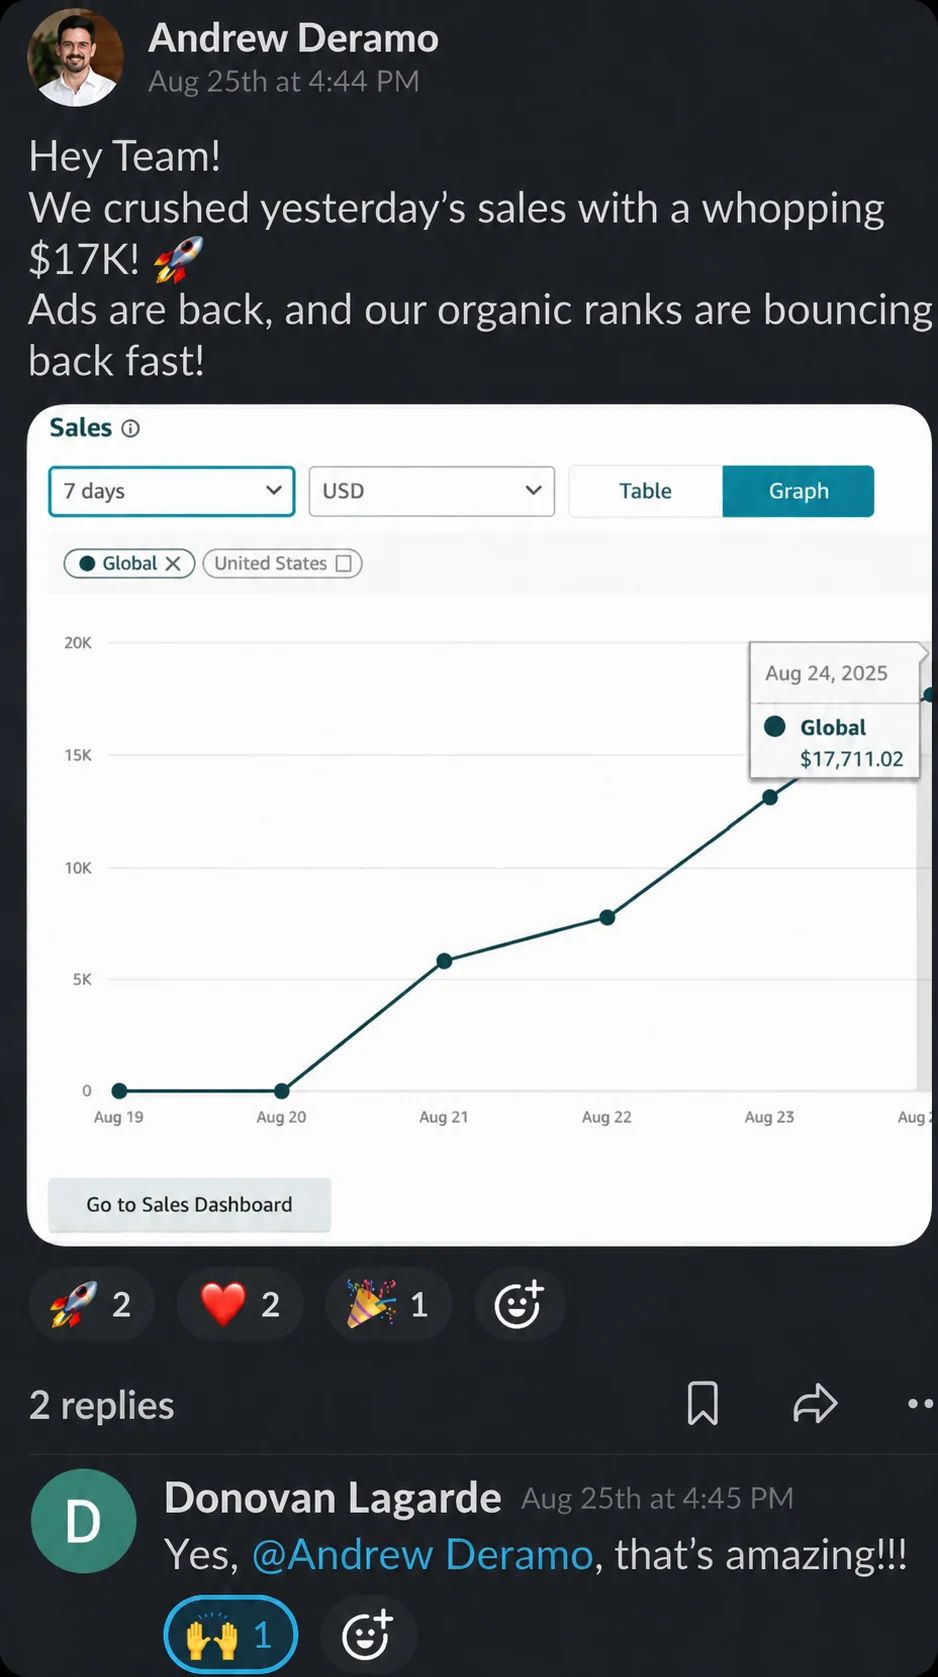
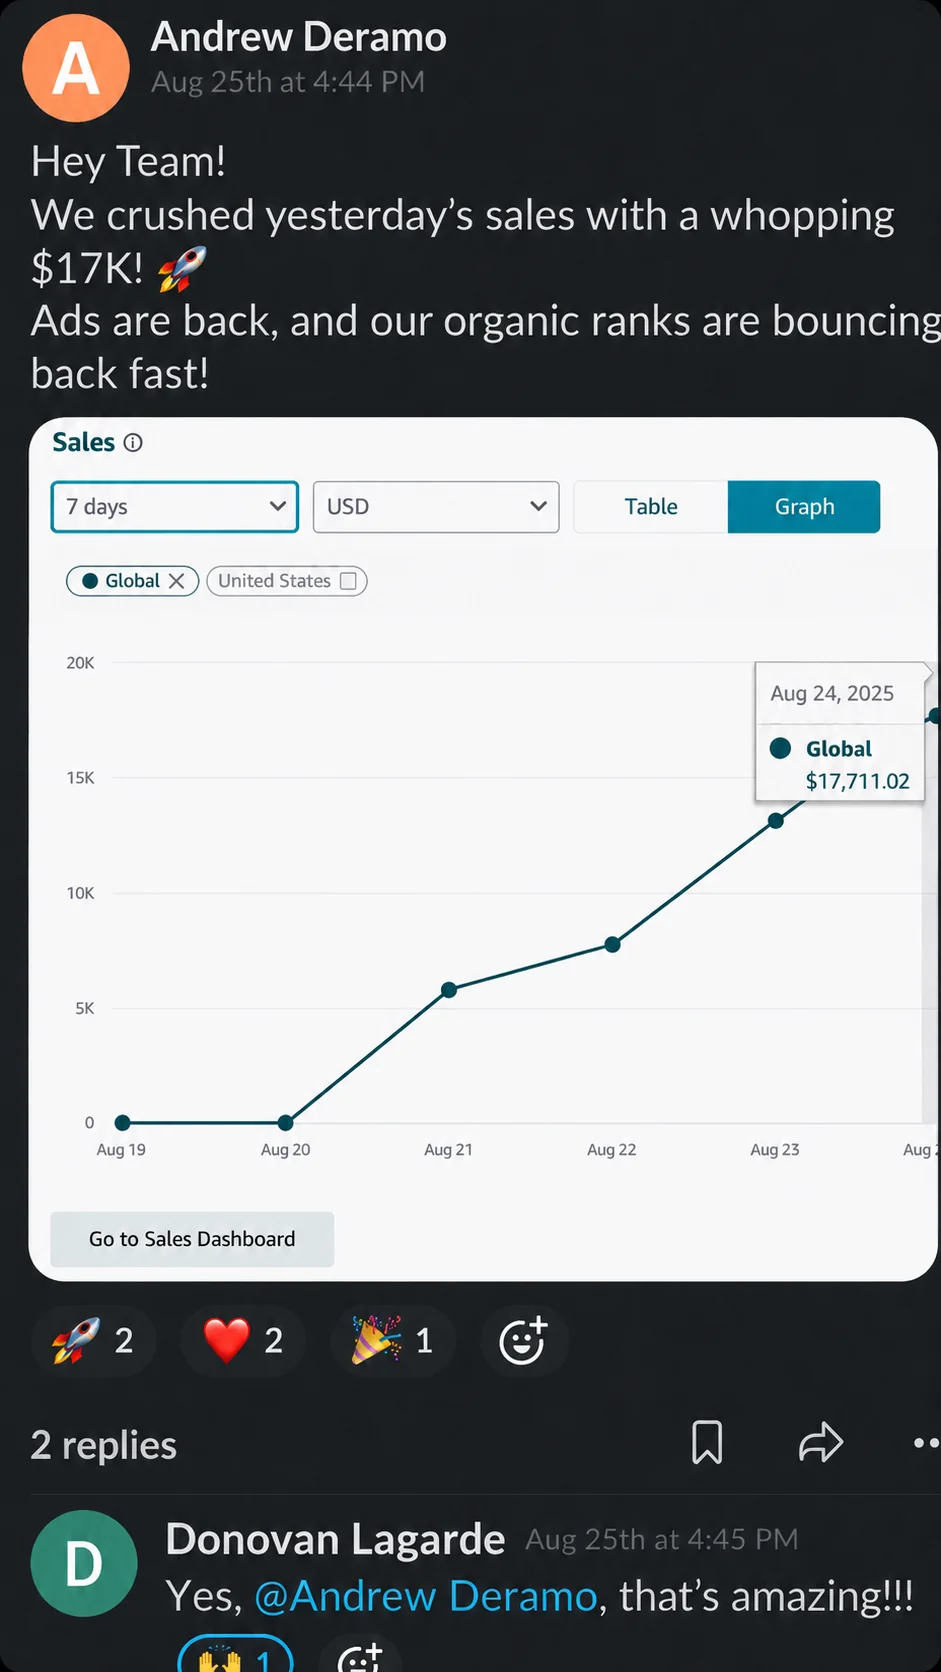
Add Calendly booking to form success + replace 3 proof images

diff --git a/free-audit.html b/free-audit.html
@@ -446,6 +446,10 @@
       text-align:center;font-size:12px;color:rgba(255,255,255,0.2);margin-top:14px;
     }
 
+    .modal-box-calendly{max-width:680px !important}
+    .modal-success .calendly-inline-widget,
+    .lp-success .calendly-inline-widget{margin-top:16px;border-radius:8px;overflow:hidden}
+
     /* ── Responsive ─────────────────────────────────────────── */
     @media(min-width:1100px){
       .lp-proof-masonry{columns:3}
@@ -475,6 +479,8 @@
       .modal-card{padding:24px 18px}
     }
   </style>
+  <link rel="preconnect" href="https://assets.calendly.com">
+  <script src="https://assets.calendly.com/assets/external/widget.js" async></script>
 </head>
 <body>
 
@@ -561,9 +567,9 @@
 
         <!-- Success State -->
         <div class="modal-success" id="modal-success">
-          <div class="modal-success-icon">&#10003;</div>
-          <h3>You are in the queue.</h3>
-          <p>We will review your application and follow up within one business day.</p>
+          <h3>Application received.</h3>
+          <p>Book a call now while you're here &mdash; no waiting, no back-and-forth.</p>
+          <div class="calendly-inline-widget" data-url="https://calendly.com/andrewd3/30min?hide_gdpr_banner=1" style="min-width:280px;height:700px;"></div>
         </div>
 
         <p class="modal-form-note" id="modal-form-note">No spam. No pitch calls. We review every application personally.</p>
@@ -797,9 +803,9 @@
       </form>
 
       <div class="lp-success" id="lp-success">
-        <div class="lp-success-icon">&#10003;</div>
-        <h3>You are in the queue.</h3>
-        <p>We will review your application and follow up within one business day.</p>
+        <h3>Application received.</h3>
+        <p>Book a call now while you're here &mdash; no waiting, no back-and-forth.</p>
+        <div class="calendly-inline-widget" data-url="https://calendly.com/andrewd3/30min?hide_gdpr_banner=1" style="min-width:280px;height:700px;"></div>
       </div>
 
       <p class="lp-form-note" id="lp-form-note">No spam. No pitch calls. We review every application personally.</p>
@@ -829,6 +835,9 @@
       document.getElementById('modal-step-1').classList.add('active');
       document.getElementById('modal-step-2').classList.remove('active');
       document.getElementById('modal-success').style.display = 'none';
+      document.querySelector('.modal-box').classList.remove('modal-box-calendly');
+      document.getElementById('modal-step-label').style.display = '';
+      document.querySelector('.modal-progress-bar').style.display = '';
       document.getElementById('modal-form').style.display = '';
       document.getElementById('modal-form-note').style.display = '';
       document.getElementById('modal-progress').style.width = '40%';
@@ -919,6 +928,7 @@
           document.querySelector('.modal-progress-bar').style.display = 'none';
           var success = document.getElementById('modal-success');
           success.style.display = 'block';
+          document.querySelector('.modal-box').classList.add('modal-box-calendly');
           document.getElementById('modal-progress').style.width = '100%';
         } else { throw 0; }
       })
